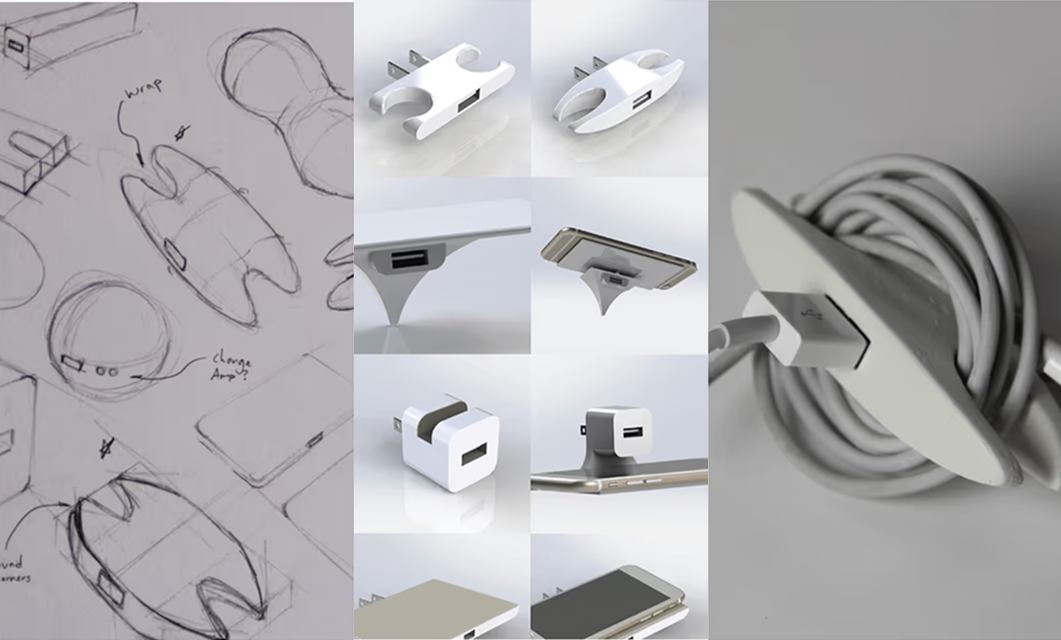
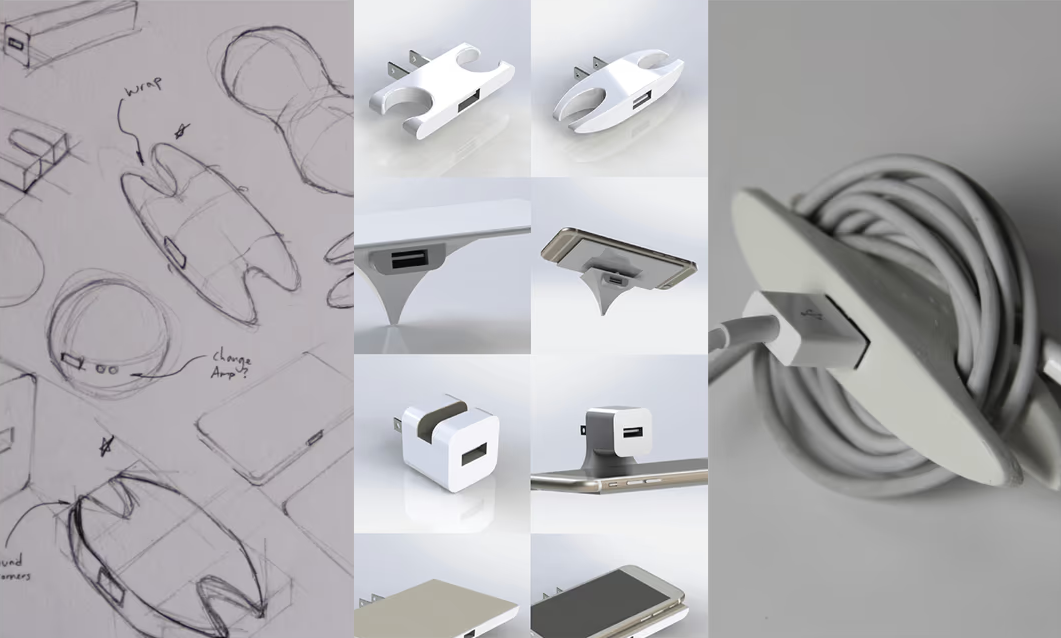
Refine landing Work carousel and simplify project timeline

diff --git a/components/ui/coverflow-carousel.tsx b/components/ui/coverflow-carousel.tsx
@@ -13,8 +13,10 @@ interface Slide {
   href: string;
 }
 
+const INITIAL_CENTER_SCALE = 1.92;
+
 export function CoverflowCarousel({ slides }: { slides: Slide[] }) {
-  const rotate = 44, depth = 0.6, falloff = 0.56, gap = 0.35, loop = true;
+  const rotate = 44, depth = 0.6, falloff = 0.56, gap = 0.35225, loop = true;
   const didDrag = React.useRef(false);
   const count = slides.length;
 
@@ -26,6 +28,9 @@ export function CoverflowCarousel({ slides }: { slides: Slide[] }) {
       swallow a keypress that lands mid-flight, before the round-off moves. */
   const targetRef = React.useRef(0);
   const widthRef = React.useRef(0);
+  const pitchRef = React.useRef(0);
+  const centerWidthRef = React.useRef<HTMLSpanElement>(null);
+  const centerScaleRef = React.useRef(INITIAL_CENTER_SCALE);
   const rafRef = React.useRef<number | null>(null);
   const dragRef = React.useRef<{
     id: number;
@@ -50,7 +55,7 @@ export function CoverflowCarousel({ slides }: { slides: Slide[] }) {
   const paint = React.useCallback(() => {
     const width = widthRef.current;
     if (!width) return;
-    const pitch = width * (1 + gap);
+    const pitch = pitchRef.current;
     const pos = posRef.current;
 
     const centered = Math.round(pos);
@@ -82,11 +87,11 @@ export function CoverflowCarousel({ slides }: { slides: Slide[] }) {
       // Capped short of edge-on so a far card never turns its back.
       const tilt = Math.min(rotate * ramp, 82) * Math.sign(offset);
 
-      const centerBoost = 0.6 * Math.max(0, 1 - distance);
+      const centerBoost = (centerScaleRef.current - 1) * Math.max(0, 1 - distance);
       const sideBoost = 0.2 * Math.max(0, 1 - Math.abs(distance - 1));
       const scale = 1 + centerBoost + sideBoost - 0.2 * Math.min(1, Math.max(0, distance - 1));
       // Tuck each outer thumbnail behind its nearer neighbor.
-      const travel = 0.72 * Math.min(distance, 1) + 0.70 * Math.min(Math.max(distance - 1, 0), 1);
+      const travel = 0.88 * Math.min(distance, 1) + 0.70 * Math.min(Math.max(distance - 1, 0), 1);
       const horizontalOffset = Math.sign(offset) * travel * pitch;
       card.style.transform =
         `translateX(calc(-50% + ${horizontalOffset}px)) ` +
@@ -165,7 +170,7 @@ export function CoverflowCarousel({ slides }: { slides: Slide[] }) {
     if (!didDrag.current && Math.abs(event.clientX - drag.x) < 6) return;
     didDrag.current = true;
     event.currentTarget.setPointerCapture(event.pointerId);
-    const pitch = widthRef.current * (1 + gap);
+    const pitch = pitchRef.current;
     if (!pitch) return;
 
     const now = performance.now();
@@ -215,24 +220,28 @@ export function CoverflowCarousel({ slides }: { slides: Slide[] }) {
     };
   }, [paint]);
 
-  // Card width drives pitch, depth and perspective, so it is the only thing
-  // worth measuring — and only when the box actually changes.
+  // Measure the base card and the responsive reading column together.
   useIsoLayoutEffect(() => {
     const frame = frameRef.current;
     if (!frame) return;
 
     const measure = () => {
       const card = cardRefs.current[0];
-      if (!card) return;
-      widthRef.current = card.offsetWidth;
+      if (!card?.offsetWidth || !centerWidthRef.current) return;
+      const baseWidth = Number.parseFloat(getComputedStyle(card).width);
+      widthRef.current = baseWidth;
+      // Keep the neighboring cards within reach on narrow screens without resizing them.
+      pitchRef.current = Math.min(baseWidth, frame.clientWidth * 0.45) * (1 + gap);
+      centerScaleRef.current = centerWidthRef.current.getBoundingClientRect().width / baseWidth;
       paint();
     };
 
     measure();
     const observer = new ResizeObserver(measure);
     observer.observe(frame);
+    if (centerWidthRef.current) observer.observe(centerWidthRef.current);
     return () => observer.disconnect();
-  }, [paint]);
+  }, [gap, paint]);
 
   React.useEffect(
     () => () => {
@@ -258,12 +267,13 @@ export function CoverflowCarousel({ slides }: { slides: Slide[] }) {
         onPointerDown={onPointerDown} onPointerMove={onPointerMove} onPointerUp={endDrag} onPointerCancel={endDrag}
         onClickCapture={e => { if (didDrag.current && e.detail) { e.preventDefault(); e.stopPropagation(); } }}
         onKeyDown={e => { if (['ArrowLeft','ArrowRight'].includes(e.key)) { e.preventDefault(); nudge(e.key === 'ArrowLeft' ? -1 : 1); } }}>
-        <div className="relative select-none" style={{ height: `calc(var(--card) * ${stageRatio * 1.6})`, transformStyle: 'preserve-3d' }}>
+        <span ref={centerWidthRef} aria-hidden="true" className="pointer-events-none invisible absolute w-[var(--center-width)]" />
+        <div className="relative select-none" style={{ height: `calc(max(var(--center-width), var(--card) * 1.2) * ${stageRatio})`, transformStyle: 'preserve-3d' }}>
           {slides.map((slide, i) => (
             <div key={slide.href} ref={node => { cardRefs.current[i] = node; }}
               data-focused={i === selected || undefined}
               className="work-coverflow-card absolute left-1/2 top-1/2 overflow-hidden rounded-control"
-              style={{ viewTransitionName: i === selected ? 'work-project-media' : undefined, width: 'var(--card)', height: `calc(var(--card) * ${heightRatios[i]})`, marginTop: `calc(var(--card) * ${-heightRatios[i] / 2})`, transform: i === 0 ? 'translateX(-50%) scale(1.6)' : 'translateX(-50%)', opacity: i === 0 ? 1 : 0 }}>
+              style={{ viewTransitionName: i === selected ? 'work-project-media' : undefined, width: 'var(--card)', height: `calc(var(--card) * ${heightRatios[i]})`, marginTop: `calc(var(--card) * ${-heightRatios[i] / 2})`, transform: i === 0 ? `translateX(-50%) scale(${INITIAL_CENTER_SCALE})` : 'translateX(-50%)', opacity: i === 0 ? 1 : 0 }}>
               <a className="block h-full" href={slide.href} draggable={false} aria-label={slide.title} tabIndex={i === selected ? 0 : -1}>
                 {slide.video ? (
                   <WorkVideoThumbnail {...slide.video} fullWidth />

diff --git a/components/ui/works-wheel.tsx b/components/ui/works-wheel.tsx
@@ -11,7 +11,6 @@ export type WorksWheelItem = {
   title: string;
   subtitle: string;
   year: string;
-  companyYears?: string[];
   href: string;
   paragraphs?: string[];
   image?: { base: string; src?: string; width: number; height: number };
@@ -175,9 +174,7 @@ export function WorksWheel({ items }: { items: WorksWheelItem[] }) {
 
   const select = (direction: number) => to(Math.round(target.current) + direction);
   const selected = items[active];
-  const projectYears = selected?.year.match(/\d{4}/g) ?? [];
-  const highlightedYears = selected?.companyYears ?? projectYears;
-  const projectYear = Math.max(...projectYears.map(Number));
+  const projectYear = Number(selected?.year);
   useEffect(() => {
     const rail = yearRef.current;
     const current = rail?.querySelector<HTMLElement>('[aria-current="date"]');
@@ -267,11 +264,9 @@ export function WorksWheel({ items }: { items: WorksWheelItem[] }) {
         <button type="button" className={styles.yearChevron} aria-label="Previous project" disabled={active === 0} onClick={() => select(-1)}><svg viewBox="0 0 24 24" width="18" height="18" aria-hidden="true"><path d="m7 14 5-5 5 5" fill="none" stroke="currentColor" strokeWidth="1.5" /></svg></button>
         <div ref={yearRef} className={styles.year} aria-label="Project years">
         {Array.from({ length: 13 }, (_, i) => 2026 - i).map((year) => {
-          const current = highlightedYears.includes(String(year));
-          const availableYears = items.flatMap((item) => (item.year.match(/\d{4}/g) ?? []).map(Number));
-          const destinationYear = Math.min(...availableYears.filter((available) => available >= year));
-          const index = items.findIndex((item) => item.year.includes(String(destinationYear)));
-          return <button key={year} type="button" className={`type-caption ${current ? styles.activeYear : ''} ${year === projectYear ? styles.projectYear : ''}`} aria-current={year === projectYear ? 'date' : undefined} onClick={() => { if (index >= 0) to(index + 1); }}>{year}</button>;
+          const index = items.findIndex(item => Number(item.year) === year);
+          if (index < 0) return <span key={year} className="type-caption">{year}</span>;
+          return <button key={year} type="button" className={`type-caption ${year === projectYear ? styles.projectYear : ''}`} aria-current={year === projectYear ? 'date' : undefined} onClick={() => to(index + 1)}>{year}</button>;
         })}
         </div>
         <button type="button" className={styles.yearChevron} aria-label="Next project" disabled={active === count - 1} onClick={() => select(1)}><svg viewBox="0 0 24 24" width="18" height="18" aria-hidden="true"><path d="m7 10 5 5 5-5" fill="none" stroke="currentColor" strokeWidth="1.5" /></svg></button>

diff --git a/components/ui/works-wheel.module.css b/components/ui/works-wheel.module.css
@@ -29,8 +29,7 @@
 /* The selected work and its navigation share the left-hand reading column. */
 .controls { position: static; transform: none; margin-bottom: 16px; gap: 12px; justify-content: flex-start; }
 .year { display: flex; flex-direction: column; gap: 8px; font-size: 13px; line-height: 1.4; }
-.year button { color: var(--text-tertiary); min-width: 44px; text-align: right; }
-.year button.activeYear { color: var(--text-primary); font-weight: 600; }
+.year > :is(button, span) { color: var(--text-tertiary); min-width: 44px; text-align: right; }
 .year button:disabled { cursor: default; }
 .media { transition: transform 240ms ease; }
 @media (hover: hover) and (pointer: fine) { .selectedCard:hover .media { transform: scale(1.07); } }
@@ -54,7 +53,7 @@
  .wheel { left: 50%; top: 51%; }
  .year { inset: auto 0 0; transform: none; max-width: none; width: 100%; box-sizing: border-box; flex-direction: row; align-items: center; gap: 20px; overflow-x: auto; overflow-y: hidden; white-space: nowrap; padding: 16px 24px; background: var(--surface-page); scrollbar-width: none; scroll-padding-inline: 24px; }
  .year::-webkit-scrollbar { display: none; }
- .year button { flex: 0 0 auto; text-align: center; min-height: 44px; }
+ .year > :is(button, span) { flex: 0 0 auto; text-align: center; min-height: 44px; }
 }
 
 /* Compact chrome leaves the wheel visible close to both viewport edges. */
@@ -108,11 +107,9 @@
  .stage::before { height: calc(var(--wheel-header-height, 64px) + var(--wheel-title-height, 48px)); }
 }
 
-.year button.activeYear:disabled { color: var(--text-primary); opacity: 1; font-weight: 600; }
 
 /* Fixed-width numerals keep every year and both chevrons on one axis. */
-.year button { font-variant-numeric: lining-nums tabular-nums; text-align: center; transition: color 160ms ease; }
-.year button.activeYear { font-weight: 400; }
+.year > :is(button, span) { font-variant-numeric: lining-nums tabular-nums; text-align: center; transition: color 160ms ease; }
 .yearChevron { transition: color 160ms ease; }
 @media (hover: hover) and (pointer: fine) {
  .year button:hover, .yearChevron:not(:disabled):hover { color: var(--text-primary); }
@@ -120,7 +117,7 @@
 }
 .year button:focus-visible, .yearChevron:focus-visible { outline: 2px solid var(--focus-ring); outline-offset: 2px; }
 
-.year button.projectYear { font-weight: 600; }
+.year button.projectYear { color: var(--text-primary); font-weight: 600; }
 
 .backgroundCopy {
  display: flex;
@@ -164,3 +161,5 @@
  .year { overflow-y: auto; min-height: 0; scrollbar-width: none; }
  .yearChevron { flex-shrink: 0; }
 }
+
+.year > span { display: grid; place-items: center; }

diff --git a/content/work-gallery.ts b/content/work-gallery.ts
@@ -1,16 +1,19 @@
 import { blocksFor, designProjects, motionTileFor, tileFor } from '@/content/projects';
 
-const companyTimelines = [
-  { years: ['2021', '2022', '2023', '2024'], projects: ['premiere-generative-ai', 'pr-ae-frame'] },
-  { years: ['2017', '2018', '2019', '2020'], projects: ['layout', 'product-visualize', 'dynamics-365-customer-voice', 'seeing-ai'] },
-];
+const timelineYears: Record<string, string> = {
+  'netflix-creative-tools': '2026',
+  'premiere-generative-ai': '2024',
+  'pr-ae-frame': '2022',
+  'product-visualize': '2019',
+  layout: '2018',
+  'seeing-ai': '2017',
+};
 
 export const workGallery = designProjects.filter((project) => !['starbucks-technology', 'paintsound', 'coin-lock', 'dynamics-365-customer-voice', '10-borders'].includes(project.slug)).flatMap((project) => {
     const image = tileFor(project.slug === 'layout' ? 'paintsound' : project.slug);
     if (!image) return [];
     const first = blocksFor(project.slug).find((block) => block.kind === 'text');
-    const year = project.slug === 'netflix-creative-tools' ? '2025, 2026'
-      : first?.kind === 'text' ? first.value.match(/\b(?:19|20)\d{2}\b/)?.[0] ?? '' : '';
-    const companyYears = companyTimelines.find(group => group.projects.includes(project.slug))?.years;
-    return [{ companyYears, title: project.title, subtitle: project.category, year, href: `/work/${project.slug}/`, image, video: project.slug === 'layout' ? undefined : motionTileFor(project.slug) }];
-  }).sort((a, b) => Math.max(...(b.year.match(/\d{4}/g) ?? ['0']).map(Number)) - Math.max(...(a.year.match(/\d{4}/g) ?? ['0']).map(Number)));
+    const year = timelineYears[project.slug] ??
+      (first?.kind === 'text' ? first.value.match(/\b(?:19|20)\d{2}\b/)?.[0] ?? '' : '');
+    return [{ title: project.title, subtitle: project.category, year, href: `/work/${project.slug}/`, image, video: project.slug === 'layout' ? undefined : motionTileFor(project.slug) }];
+  }).sort((a, b) => Number(b.year) - Number(a.year));

diff --git a/styles/globals.css b/styles/globals.css
@@ -820,11 +820,6 @@ body:has([data-work-actions]) > footer > div {
   }
 }
 
-@media (hover: hover) and (pointer: fine) and (prefers-reduced-motion: no-preference) {
-  .work-coverflow-card { transition: scale 220ms var(--e-standard); }
-  .work-coverflow-card[data-focused]:hover { scale: 1.02; }
-}
-
 /* Match the clipping frame to the uploaded media on portfolio routes. */
 .portfolio-media .overflow-hidden:has(> iframe),
 .portfolio-media :is(img, video):not([data-app-logo] > img),
@@ -834,10 +829,16 @@ body:has([data-work-actions]) > footer > div {
 
 .work-coverflow {
   container-type: inline-size;
-  --card: min(calc((100cqw - 2 * var(--page-pad)) * 0.32), 300px);
+  --center-width: min(560px, calc(100cqw - 32px));
+  --card: 300px;
 }
 
-@media (max-width: 699px) {
-  /* The centered card scales to 1.6 times its base width. */
-  .work-coverflow { --card: calc((100cqw - 2 * var(--page-pad)) / 1.6); }
+
+@screen large {
+  .work-coverflow { --center-width: calc((min(100cqw, 1200px) - 2 * var(--page-pad)) / 2); }
+}
+
+@media (hover: hover) and (pointer: fine) and (prefers-reduced-motion: no-preference) {
+  .work-coverflow-card { transition: scale 700ms cubic-bezier(0.215, 0.61, 0.355, 1); }
+  .work-coverflow-card[data-focused]:hover { scale: 1.02; }
 }

diff --git a/app/work/[slug]/page.tsx b/app/work/[slug]/page.tsx
@@ -70,6 +70,8 @@ export default function WorkPage({ params }: { params: { slug: string } }) {
   const relatedVideo = source.find(block => block.kind === 'embed' && block.src === `https://www.youtube.com/embed/${videoId}`);
   const all = source.filter(block =>
     block !== relatedVideo &&
+    !(project.slug === 'product-visualize' && block.kind === 'image' &&
+      block.base === 'img-product-visualize-salesassistheroimage') &&
     !(project.slug === 'wrap-and-charge' && (
       (block.kind === 'image' && block.base === 'img-wrap-and-charge-bbb') ||
       (block.kind === 'text' && ['Question', '"Why can\'t I wrap my cable on the charger?"'].includes(block.value))
